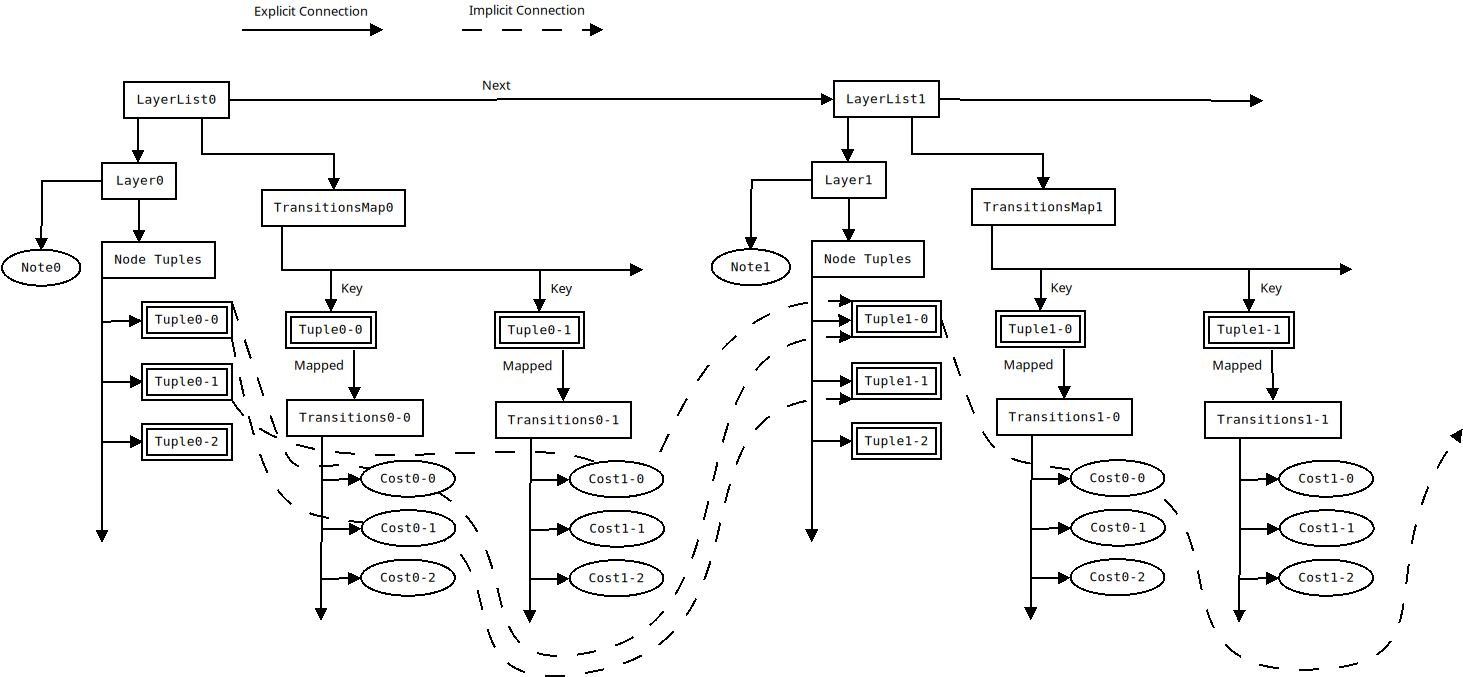
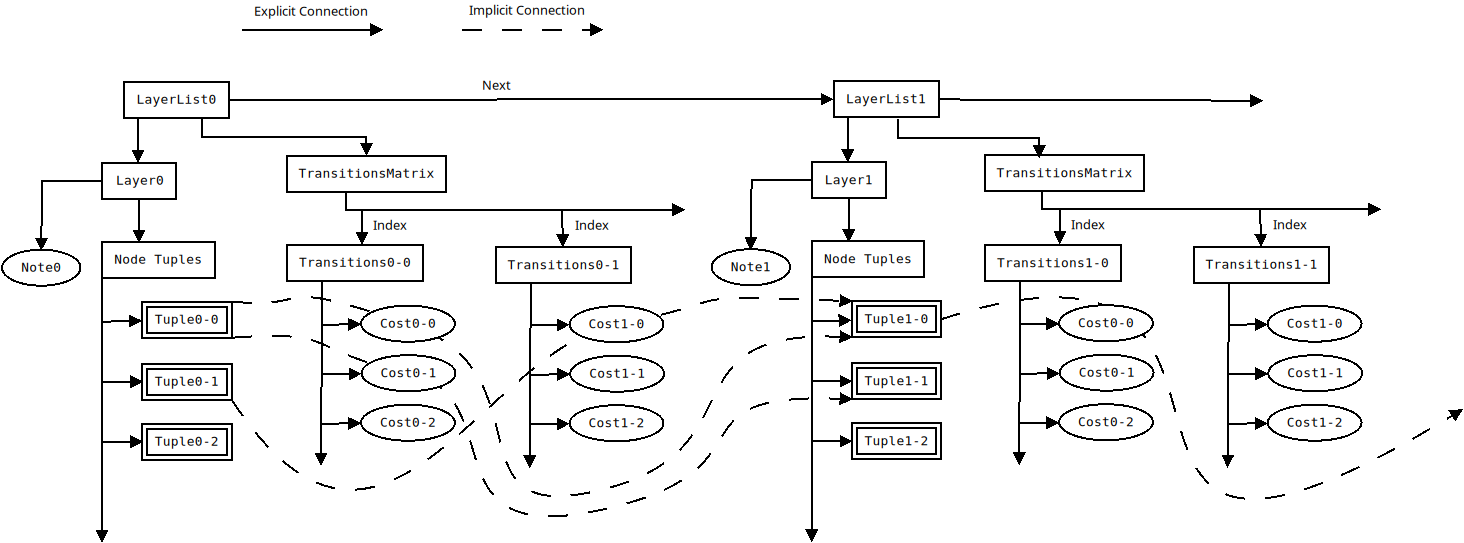
Altered layerlist to use a matrix instead of a map, also altered the diagram to properly reflect this change.

diff --git a/tests/tests.cpp b/tests/tests.cpp
@@ -1038,11 +1038,9 @@ TEST_F(LayerList_Tests, Transitions) {
 			       	     };
 	int count = 0;
 	//D_3 = {1, 1, 1}
-	for (auto& transition : l_it->getTransitions()) {
-		cout << transition.first << ", ";
-		cout << transition.first << ", ";
-		cout << transition.first << "\n";
-		for (auto& output : transition.second) {
+	for (int i = 0; i < l_it->getTransitions().size(); i++) {
+		cout << l_it->getElem()[i] << "\n";
+		for (auto& output : l_it->getTransitions()[i]) {
 			cout << "Count: " 
 			     << count 
 			     << "\nOutput D -> Fs: " 
@@ -1056,11 +1054,9 @@ TEST_F(LayerList_Tests, Transitions) {
 
 	l_it++;
 	//Fs_3 = {1, 1, 3}, {1, 2, 2}, {1, 3, 1}
-	for (auto& transition : l_it->getTransitions()) {
-		cout << transition.first << ", ";
-		cout << transition.first << ", ";
-		cout << transition.first << "\n";
-		for (auto& output : transition.second) {
+	for (int i = 0; i < l_it->getTransitions().size(); i++) {
+		cout << l_it->getElem()[i] << "\n";
+		for (auto& output : l_it->getTransitions()[i]) {
 			cout << "Count: " 
 			     << count 
 			     << "\nOutput Fs -> G: " 
@@ -1074,11 +1070,9 @@ TEST_F(LayerList_Tests, Transitions) {
 
 	l_it++;
 	//G_3 = {1, 1, 4}, {1, 2, 3}, {1, 3, 2}, {2, 0, 0}
-	for (auto& transition : l_it->getTransitions()) {
-		cout << transition.first << ", ";
-		cout << transition.first << ", ";
-		cout << transition.first << "\n";
-		for (auto& output : transition.second) {
+	for (int i = 0; i < l_it->getTransitions().size(); i++) {
+		cout << l_it->getElem()[i] << "\n";
+		for (auto& output : l_it->getTransitions()[i]) {
 			cout << "Count: " 
 			     << count 
 			     << "\nOutput G -> Cs: " 
@@ -1092,8 +1086,8 @@ TEST_F(LayerList_Tests, Transitions) {
 
 	//Cs_4 = {2, 1, 3} -- Does not transition out
 	l_it++;
-	for (auto& transition : l_it->getTransitions()) {
-		for (auto& output : transition.second) {
+	for (int i = 0; i < l_it->getTransitions().size(); i++) {
+		for (auto& output : l_it->getTransitions()[i]) {
 			ASSERT_EQ(output, -1);
 			count++;
 		}

diff --git a/src/GreedySolver.cpp b/src/GreedySolver.cpp
@@ -19,19 +19,19 @@ void GreedySolver::solve(LayerList<out_type>& ls) {
 			bool first_transition_tuple = true;
 
 			//Iterate through all nodes and select best starting point.
-			for (auto transition : layerlist.getTransitions()) {
-				next_tuple = findCheapest(layerlist, transition.first);
+			for (int i = 0; i < layerlist.getTransitions().size(); i++) {
+				next_tuple = findCheapest(layerlist, i);
 				new_output = std::get<0>(next_tuple);
 
 				//Set output on first tuple.
 				if (first_transition_tuple) {
 					first_transition_tuple = false;
 					output = new_output;
-					res_node = transition.first;
+					res_node = layerlist.getElem()[i];
 					edge_index = std::get<1>(next_tuple);
 				}
 				if (new_output < output) {
-					res_node = transition.first;
+					res_node = layerlist.getElem()[i];
 					output = new_output;
 					edge_index = std::get<1>(next_tuple);
 				}
@@ -43,7 +43,7 @@ void GreedySolver::solve(LayerList<out_type>& ls) {
 			}
 		} else {
 			res_node = layerlist.getElem()[edge_index];
-			next_tuple = findCheapest(layerlist, res_node);
+			next_tuple = findCheapest(layerlist, edge_index);
 			output = std::get<0>(next_tuple);
 			edge_index = std::get<1>(next_tuple);
 			
@@ -60,11 +60,13 @@ void GreedySolver::solve(LayerList<out_type>& ls) {
 	}
 }
 
-const std::tuple<int, int> GreedySolver::findCheapest(LayerList<out_type>& ls, 
-						      const PhysAttrMap& prev) const {
-	const std::vector<int>& transitions = ls.getTransitions()[prev];
+const std::tuple<int, int> GreedySolver::findCheapest(LayerList<out_type>& ls, int prev) const {
 	int transition_cost = -1;
 	int next_index = -1;
+	if (ls.getTransitions().size() == 0) {
+		return std::tuple<int, int>{transition_cost, next_index};
+	}
+	const std::vector<int>& transitions = ls.getTransitions()[prev];
 	for (int i = 0; i < transitions.size(); i++) {
 		if (i == 0) {
 			transition_cost = transitions[0];

diff --git a/src/LayerList.h b/src/LayerList.h
@@ -19,11 +19,7 @@
 //the next layer
 template <class Output> class LayerList {
 	private:
-		//Map each tuple in the current layer to an array of values, each 
-		//value at position n in the array corresponds to the cost of 
-		//transitioning from the mapped tuple to the n'th tuple in the next 
-		//layer.
-		std::map<PhysAttrMap, std::vector<Output>, PhysAttrMap::AttrLess> transitions;
+		std::vector<std::vector<Output>> transitions;
 		//Layers are to be owned by the respective LayerList node.
 		Layer elem;
 		//Next link in list.
@@ -53,7 +49,7 @@ template <class Output> class LayerList {
 		const LayerList<Output>* getNext() const;
 		const Layer& getElem() const;
 		int getSize() const;
-		std::map<PhysAttrMap, std::vector<Output>, PhysAttrMap::AttrLess>& getTransitions();
+		std::vector<std::vector<Output>>& getTransitions();
 		
 		//Builds transitions through the entire layerlist using an actionset.
 		int buildTransitions(const std::shared_ptr<ActionSet<Output>>);

diff --git a/src/LayerList.cpp b/src/LayerList.cpp
@@ -108,12 +108,12 @@ int LayerList<Output>::buildTransitions(const std::shared_ptr<ActionSet<Output>>
 		for (const PhysAttrMap& next_tuple : next_layer.getNodes()) {
 			outputs.push_back(as->apply(this_tuple, next_tuple));
 		}
-		bool l = transitions.insert(std::make_pair(this_tuple, outputs)).second;
+		transitions.push_back(outputs);
 	} 
 	return next->buildTransitions(as);
 }
 
 template<typename Output>
-std::map<PhysAttrMap, std::vector<Output>, PhysAttrMap::AttrLess>& LayerList<Output>::getTransitions() {
+std::vector<std::vector<Output>>& LayerList<Output>::getTransitions() {
 	return transitions;
 }

diff --git a/src/GreedySolver.h b/src/GreedySolver.h
@@ -11,7 +11,7 @@
 class GreedySolver : public virtual GraphSolver<int> {
 		using out_type = int;
 	private:
-		const std::tuple<int, int> findCheapest(LayerList<out_type>&, const PhysAttrMap&) const;
+		const std::tuple<int, int> findCheapest(LayerList<out_type>&, int) const;
 	public:
 		GreedySolver() {}
 		void solve(LayerList<out_type>&);
